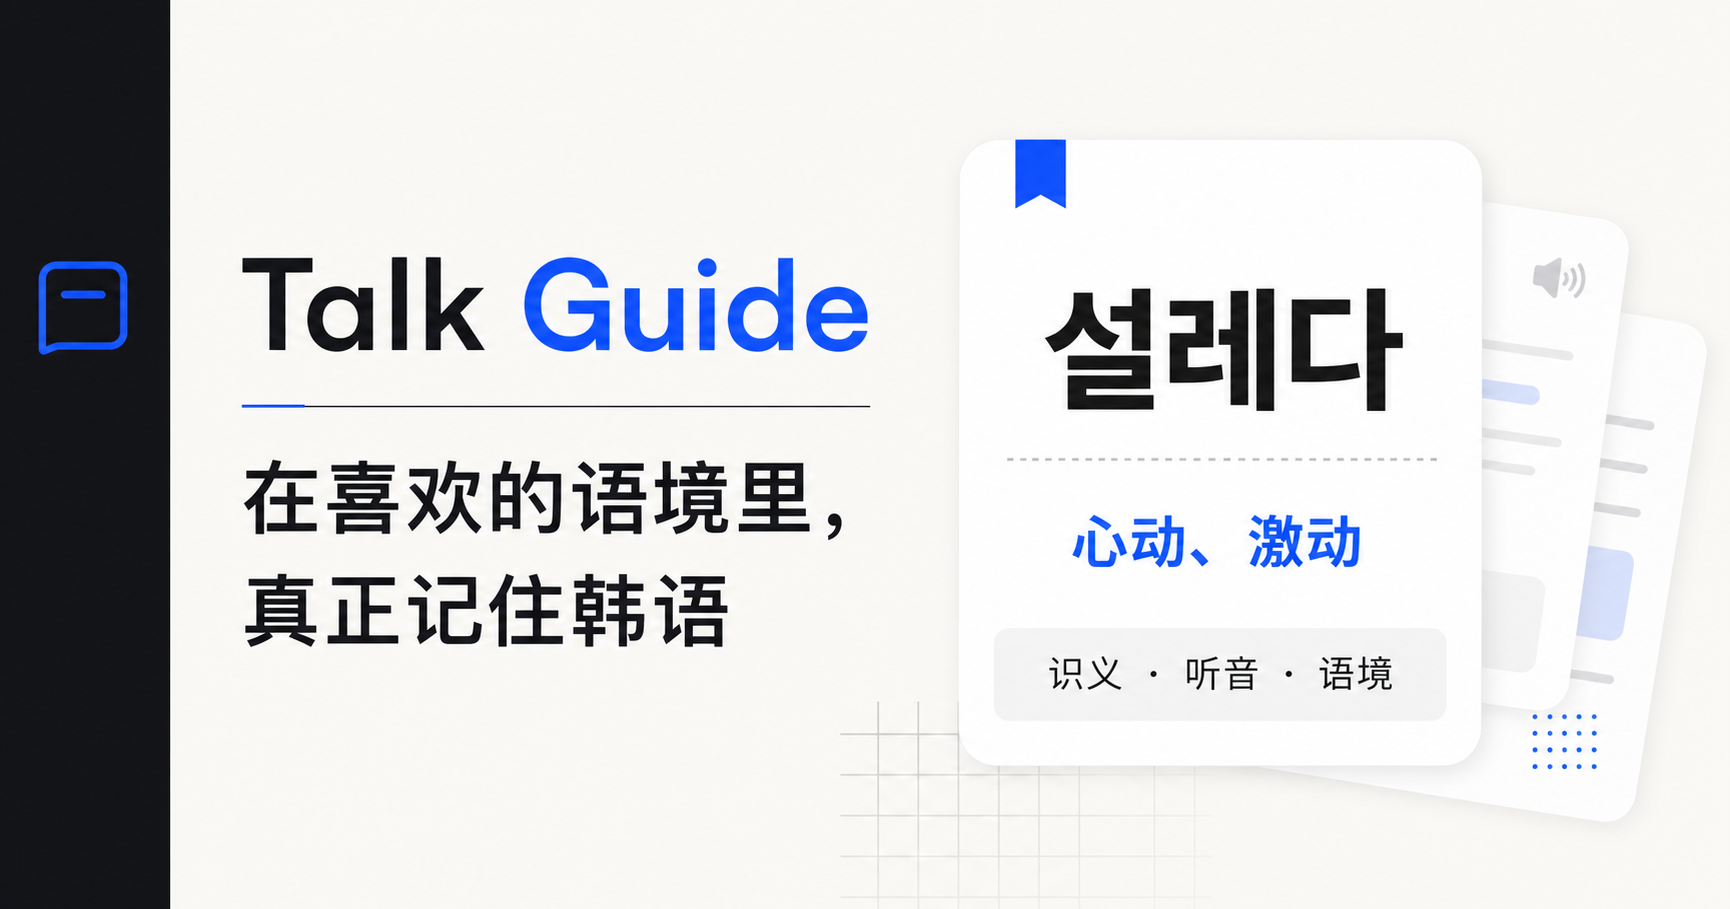
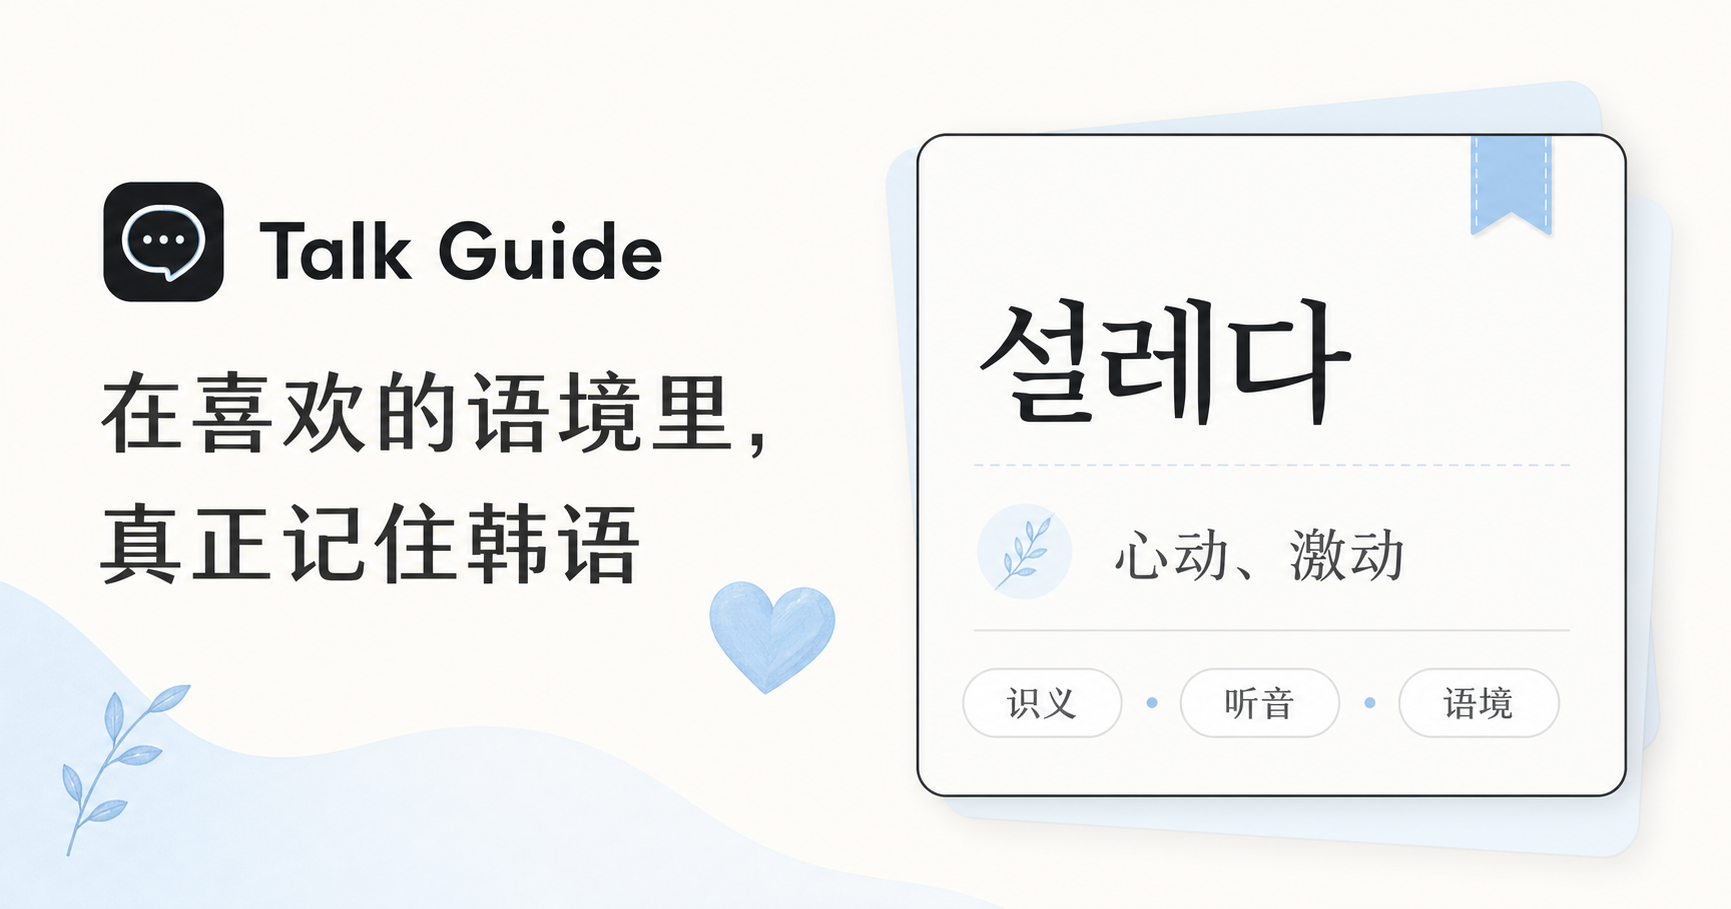
Soften Talk Guide accent palette

diff --git a/app/globals.css b/app/globals.css
@@ -5,8 +5,10 @@
   --muted: #747982;
   --line: #e6e8eb;
   --soft: #f5f6f7;
-  --blue: #246bfd;
-  --blue-soft: #eaf1ff;
+  --blue: #91c9f7;
+  --blue-strong: #5f9ed6;
+  --blue-ink: #17334a;
+  --blue-soft: #edf7ff;
 }
 
 * { box-sizing: border-box; }
@@ -17,17 +19,17 @@ button { color: inherit; }
 .app-shell { min-height: 100vh; display: flex; }
 .sidebar { position: fixed; inset: 0 auto 0 0; width: 232px; background: #0e1013; color: #fff; padding: 28px 18px 20px; display: flex; flex-direction: column; z-index: 20; }
 .brand { border: 0; background: transparent; color: white; display: flex; align-items: center; gap: 12px; padding: 0 10px; font-size: 17px; font-weight: 700; cursor: pointer; letter-spacing: -.02em; }
-.brand-mark { width: 30px; height: 30px; display: grid; place-items: center; background: var(--blue); color: white; border-radius: 8px; font-weight: 800; transform: rotate(-3deg); }
+.brand-mark { width: 30px; height: 30px; display: grid; place-items: center; background: #e8f5ff; border: 1px solid #cfeaff; color: var(--blue-strong); border-radius: 10px; font-size: 16px; font-weight: 800; transform: rotate(-3deg); }
 .nav-list { display: grid; gap: 6px; margin-top: 44px; }
 .nav-button { width: 100%; border: 0; background: transparent; color: #8e939d; border-radius: 9px; padding: 12px 13px; display: flex; align-items: center; gap: 13px; cursor: pointer; text-align: left; transition: .2s ease; }
 .nav-button:hover { color: white; background: #181b20; }
 .nav-button.active { color: white; background: #20242a; }
 .nav-button > span:first-child { width: 20px; text-align: center; font-size: 18px; }
-.nav-button small { margin-left: auto; color: #78a2ff; font-size: 9px; letter-spacing: .12em; }
+.nav-button small { margin-left: auto; color: #a9d7ff; font-size: 9px; letter-spacing: .12em; }
 .sidebar-bottom { margin-top: auto; display: grid; gap: 8px; }
 .nav-button.muted { font-size: 13px; }
 .profile-button { border: 1px solid #282c33; background: #17191e; color: white; padding: 12px; border-radius: 12px; display: flex; align-items: center; gap: 10px; text-align: left; cursor: pointer; }
-.avatar { width: 34px; height: 34px; border-radius: 50%; background: #d9e5ff; color: var(--blue); display: grid; place-items: center; font-weight: 800; }
+.avatar { width: 34px; height: 34px; border-radius: 50%; background: #e6f5ff; color: var(--blue-strong); display: grid; place-items: center; font-weight: 800; }
 .profile-copy { display: grid; gap: 3px; flex: 1; }
 .profile-copy strong { font-size: 12px; }
 .profile-copy small { color: #858b95; font-size: 10px; }
@@ -35,7 +37,7 @@ button { color: inherit; }
 .topbar { height: 76px; background: rgba(255,255,255,.92); border-bottom: 1px solid var(--line); display: flex; align-items: center; justify-content: center; position: sticky; top: 0; z-index: 15; backdrop-filter: blur(14px); padding: 0 46px; }
 .mobile-brand { display: none; }
 .search-box { width: min(420px, 48vw); height: 40px; display: flex; align-items: center; gap: 10px; padding: 0 12px; background: var(--soft); border: 1px solid transparent; border-radius: 10px; color: #92969c; transition: .2s; }
-.search-box:focus-within { background: white; border-color: #b9cdfd; box-shadow: 0 0 0 3px var(--blue-soft); }
+.search-box:focus-within { background: white; border-color: #b9ddf8; box-shadow: 0 0 0 3px var(--blue-soft); }
 .search-box input { border: 0; outline: 0; background: transparent; flex: 1; min-width: 0; font-size: 13px; }
 .search-box kbd { background: white; border: 1px solid var(--line); border-radius: 5px; padding: 2px 6px; font-size: 10px; color: #8b8f97; }
 .top-actions { position: absolute; right: 44px; display: flex; gap: 8px; }
@@ -45,17 +47,17 @@ button { color: inherit; }
 .welcome-row, .page-title { display: flex; justify-content: space-between; align-items: flex-end; margin-bottom: 34px; }
 .eyebrow { color: #92979f; font-size: 10px; font-weight: 700; letter-spacing: .16em; margin: 0 0 10px; }
 .welcome-row h1, .page-title h1 { font-size: clamp(27px, 3vw, 40px); letter-spacing: -.05em; margin: 0 0 9px; line-height: 1.1; }
-.welcome-row h1 span { color: var(--blue); }
+.welcome-row h1 span { color: var(--blue-strong); }
 .welcome-row p:last-child, .page-title p:last-child { margin: 0; color: var(--muted); font-size: 13px; }
 .settings-link, .section-heading button, .talk-copy button { border: 0; background: transparent; color: var(--muted); font-size: 12px; cursor: pointer; padding: 5px 0; }
-.settings-link:hover, .section-heading button:hover, .talk-copy button:hover { color: var(--blue); }
+.settings-link:hover, .section-heading button:hover, .talk-copy button:hover { color: var(--blue-strong); }
 .hero-grid { display: grid; grid-template-columns: 1.08fr .92fr; gap: 18px; }
 .study-card, .review-card, .talk-preview, .settings-card { background: white; border: 1px solid var(--line); border-radius: 18px; }
 .study-card { min-height: 330px; padding: 24px; position: relative; overflow: hidden; display: grid; grid-template-columns: 165px 1fr; align-items: center; gap: 20px; }
 .study-card::after { content: "가"; position: absolute; right: -6px; top: -46px; font-size: 170px; font-weight: 900; color: #f7f8f9; z-index: 0; transform: rotate(8deg); }
 .card-topline { position: absolute; top: 22px; left: 24px; right: 24px; display: flex; justify-content: space-between; align-items: center; z-index: 2; }
 .pill { width: fit-content; background: var(--soft); color: #5f646d; border-radius: 999px; padding: 6px 9px; font-size: 9px; font-weight: 700; letter-spacing: .06em; text-transform: uppercase; }
-.blue-pill { background: var(--blue-soft); color: var(--blue); }
+.blue-pill { background: var(--blue-soft); color: var(--blue-strong); }
 .quiet { font-size: 11px; color: #9a9ea4; }
 .progress-ring { --progress: 30%; width: 136px; height: 136px; border-radius: 50%; display: grid; place-items: center; background: conic-gradient(var(--blue) var(--progress), #edf0f4 0); position: relative; z-index: 1; }
 .progress-ring::after { content: ""; position: absolute; width: 112px; height: 112px; background: white; border-radius: 50%; }
@@ -67,8 +69,8 @@ button { color: inherit; }
 .study-copy p { color: var(--muted); font-size: 12px; margin: 8px 0 18px; }
 .mini-tags { display: flex; gap: 6px; margin-bottom: 20px; flex-wrap: wrap; }
 .mini-tags span { border: 1px solid var(--line); border-radius: 6px; padding: 5px 8px; color: #737780; font-size: 10px; }
-.primary-button { border: 0; background: var(--blue); color: white; min-height: 43px; padding: 0 18px; border-radius: 10px; display: inline-flex; align-items: center; justify-content: center; gap: 30px; font-size: 12px; font-weight: 700; cursor: pointer; box-shadow: 0 6px 20px rgba(36,107,253,.18); transition: transform .2s, background .2s; }
-.primary-button:hover { background: #155ce8; transform: translateY(-1px); }
+.primary-button { border: 0; background: var(--blue); color: var(--blue-ink); min-height: 43px; padding: 0 18px; border-radius: 10px; display: inline-flex; align-items: center; justify-content: center; gap: 30px; font-size: 12px; font-weight: 700; cursor: pointer; box-shadow: 0 6px 20px rgba(95,158,214,.16); transition: transform .2s, background .2s; }
+.primary-button:hover { background: #7ebcf0; transform: translateY(-1px); }
 .review-card { padding: 24px; }
 .section-heading { display: flex; justify-content: space-between; align-items: end; gap: 16px; }
 .section-heading .pill { margin-bottom: 8px; }
@@ -88,7 +90,7 @@ button { color: inherit; }
 .scene-card { border: 1px solid var(--line); background: white; border-radius: 14px; padding: 17px; display: grid; grid-template-columns: 40px 1fr auto; grid-template-rows: auto auto; gap: 12px; text-align: left; cursor: pointer; transition: .2s; }
 .scene-card:hover { transform: translateY(-2px); border-color: #cbd8f8; box-shadow: 0 12px 28px rgba(25,35,55,.06); }
 .scene-icon { width: 38px; height: 38px; border-radius: 10px; display: grid; place-items: center; font-size: 18px; }
-.scene-icon.blue, .book-cover.blue { background: #dfe9ff; color: #2e68e7; }
+.scene-icon.blue, .book-cover.blue { background: #e4f4ff; color: #5795cb; }
 .scene-icon.mint, .book-cover.mint { background: #dff5ed; color: #278367; }
 .scene-icon.lavender, .book-cover.lavender { background: #ece5ff; color: #7357c5; }
 .scene-icon.yellow, .book-cover.yellow { background: #fff0c9; color: #a06c00; }
@@ -101,8 +103,8 @@ button { color: inherit; }
 .bottom-grid { display: grid; grid-template-columns: 1.25fr .75fr; gap: 18px; margin-top: 50px; }
 .talk-preview { display: grid; grid-template-columns: .85fr 1.15fr; padding: 14px; gap: 22px; }
 .talk-visual { border-radius: 12px; min-height: 180px; background: #111318; color: white; display: flex; flex-direction: column; align-items: center; justify-content: center; position: relative; overflow: hidden; }
-.talk-visual::before { content: ""; position: absolute; inset: 0; background: radial-gradient(circle at 70% 20%, #254c9f 0, transparent 45%); opacity: .8; }
-.audio-wave { color: #6e8ccd; letter-spacing: 4px; position: relative; }
+.talk-visual::before { content: ""; position: absolute; inset: 0; background: radial-gradient(circle at 70% 20%, #3d7296 0, transparent 45%); opacity: .72; }
+.audio-wave { color: #9ccdf1; letter-spacing: 4px; position: relative; }
 .talk-visual button { width: 44px; height: 44px; border-radius: 50%; border: 1px solid rgba(255,255,255,.25); background: rgba(255,255,255,.12); color: white; margin: 13px 0; position: relative; cursor: pointer; }
 .talk-visual > span:last-child { font-size: 9px; color: #a8b1c7; position: relative; }
 .talk-copy { display: flex; flex-direction: column; justify-content: center; align-items: flex-start; }
@@ -131,29 +133,29 @@ button { color: inherit; }
 .study-progress i { display: block; height: 100%; background: var(--blue); }
 .learning-card { flex: 1; background: white; margin: 18px; border: 1px solid var(--line); border-radius: 16px; padding: 38px 50px; display: flex; flex-direction: column; justify-content: center; }
 .center-card { align-items: center; text-align: center; }
-.sound-button { width: 50px; height: 50px; border: 0; border-radius: 50%; background: var(--blue-soft); color: var(--blue); cursor: pointer; font-size: 20px; }
+.sound-button { width: 50px; height: 50px; border: 0; border-radius: 50%; background: var(--blue-soft); color: var(--blue-strong); cursor: pointer; font-size: 20px; }
 .center-card h2 { margin: 18px 0 4px; font-size: 56px; letter-spacing: -.06em; }
 .word-type { color: var(--muted); font-size: 11px; }
 .learning-hint { max-width: 350px; color: var(--muted); font-size: 12px; line-height: 1.7; margin-top: 24px; }
 .question-word { font-size: 46px; margin: 18px 0 30px; letter-spacing: -.05em; }
 .answer-grid { display: grid; grid-template-columns: 1fr 1fr; gap: 10px; }
 .answer-grid button { border: 1px solid var(--line); background: white; border-radius: 10px; padding: 16px; cursor: pointer; text-align: left; font-size: 12px; }
-.answer-grid button:hover, .answer-grid button.selected { border-color: var(--blue); background: var(--blue-soft); color: var(--blue); }
+.answer-grid button:hover, .answer-grid button.selected { border-color: var(--blue); background: var(--blue-soft); color: var(--blue-ink); }
 .answer-note { padding: 12px; background: #fff0e6; color: #b56527; border-radius: 8px; font-size: 11px; margin: 14px 0 0; }
 .answer-note.correct { background: #eaf7f0; color: #378666; }
 .big-audio-button { width: 100px; height: 100px; border: 0; background: #111318; color: white; border-radius: 50%; margin: 10px auto 36px; display: grid; place-items: center; cursor: pointer; font-size: 25px; }
 .big-audio-button small { font-size: 8px; color: #a7adba; }
 .answer-grid.compact button { text-align: center; font-size: 16px; }
 .context-box { background: #111318; color: white; border-radius: 14px; padding: 32px; position: relative; }
-.context-box > span { color: #4f80ed; font-size: 50px; position: absolute; top: 8px; }
+.context-box > span { color: #8cc8f5; font-size: 50px; position: absolute; top: 8px; }
 .context-box h2 { font-size: 24px; line-height: 1.5; margin: 26px 0 10px; }
 .context-box p { color: #aeb5c1; font-size: 11px; }
 .word-breakdown { border-left: 3px solid var(--blue); display: grid; grid-template-columns: auto 1fr; gap: 6px 18px; margin-top: 20px; padding: 4px 14px; }
 .word-breakdown strong { font-size: 18px; }
-.word-breakdown span { color: var(--blue); font-size: 12px; align-self: center; }
+.word-breakdown span { color: var(--blue-strong); font-size: 12px; align-self: center; }
 .word-breakdown small { color: var(--muted); grid-column: 1 / -1; }
 .result-check { width: 52px; height: 52px; border-radius: 50%; display: grid; place-items: center; background: #eaf7f0; color: #3a916b; font-size: 21px; }
-.center-card h3 { margin: 0; color: var(--blue); font-size: 15px; }
+.center-card h3 { margin: 0; color: var(--blue-strong); font-size: 15px; }
 .memory-options { display: flex; gap: 8px; }
 .memory-options span { background: var(--soft); border-radius: 7px; padding: 7px 10px; font-size: 10px; }
 .study-footer { background: white; border-top: 1px solid var(--line); padding: 16px 22px; display: flex; justify-content: space-between; }
@@ -182,9 +184,9 @@ button { color: inherit; }
 .book-info h3 { margin: 0 0 8px; font-size: 17px; }
 .book-info p { color: var(--muted); font-size: 10px; line-height: 1.6; margin: 0; }
 .book-info > div { display: flex; gap: 12px; margin-top: auto; font-size: 9px; color: var(--muted); }
-.book-info button { border: 0; background: transparent; color: var(--blue); font-size: 11px; padding: 13px 0 0; cursor: pointer; }
+.book-info button { border: 0; background: transparent; color: var(--blue-strong); font-size: 11px; padding: 13px 0 0; cursor: pointer; }
 .empty-talk { background: white; border: 1px solid var(--line); min-height: 470px; border-radius: 18px; display: flex; flex-direction: column; align-items: center; justify-content: center; text-align: center; padding: 50px; }
-.empty-wave { color: #7397eb; letter-spacing: 8px; margin-bottom: 28px; font-size: 22px; }
+.empty-wave { color: #8ec7f3; letter-spacing: 8px; margin-bottom: 28px; font-size: 22px; }
 .empty-talk h2 { margin: 18px 0 10px; font-size: 24px; }
 .empty-talk > p { max-width: 520px; color: var(--muted); font-size: 11px; line-height: 1.7; }
 .talk-steps { display: flex; flex-wrap: wrap; gap: 8px; justify-content: center; margin-top: 22px; }
@@ -218,7 +220,7 @@ button { color: inherit; }
   .talk-preview { grid-template-columns: 1fr; }
   .mobile-nav { position: fixed; display: grid; grid-template-columns: repeat(4, 1fr); left: 0; right: 0; bottom: 0; height: 66px; background: rgba(255,255,255,.96); border-top: 1px solid var(--line); z-index: 30; backdrop-filter: blur(12px); }
   .mobile-nav .nav-button { color: #8a8f97; border-radius: 0; justify-content: center; flex-direction: column; gap: 3px; padding: 7px; font-size: 9px; }
-  .mobile-nav .nav-button.active { background: transparent; color: var(--blue); }
+  .mobile-nav .nav-button.active { background: transparent; color: var(--blue-strong); }
   .mobile-nav .nav-button > span:first-child { font-size: 17px; }
   .stats-grid { grid-template-columns: 1fr 1fr; }
   .table-head { display: none; }

diff --git a/app/page.tsx b/app/page.tsx
@@ -72,7 +72,7 @@ export default function Home() {
     <main className="app-shell">
       <aside className="sidebar">
         <button className="brand" onClick={() => setActiveTab("today")} aria-label="返回今日学习">
-          <span className="brand-mark">T</span>
+          <span className="brand-mark">🩵</span>
           <span>Talk Guide</span>
         </button>
 
@@ -95,7 +95,7 @@ export default function Home() {
 
       <section className="main-panel">
         <header className="topbar">
-          <div className="mobile-brand"><span className="brand-mark">T</span><strong>Talk Guide</strong></div>
+          <div className="mobile-brand"><span className="brand-mark">🩵</span><strong>Talk Guide</strong></div>
           <label className="search-box">
             <span>⌕</span>
             <input
